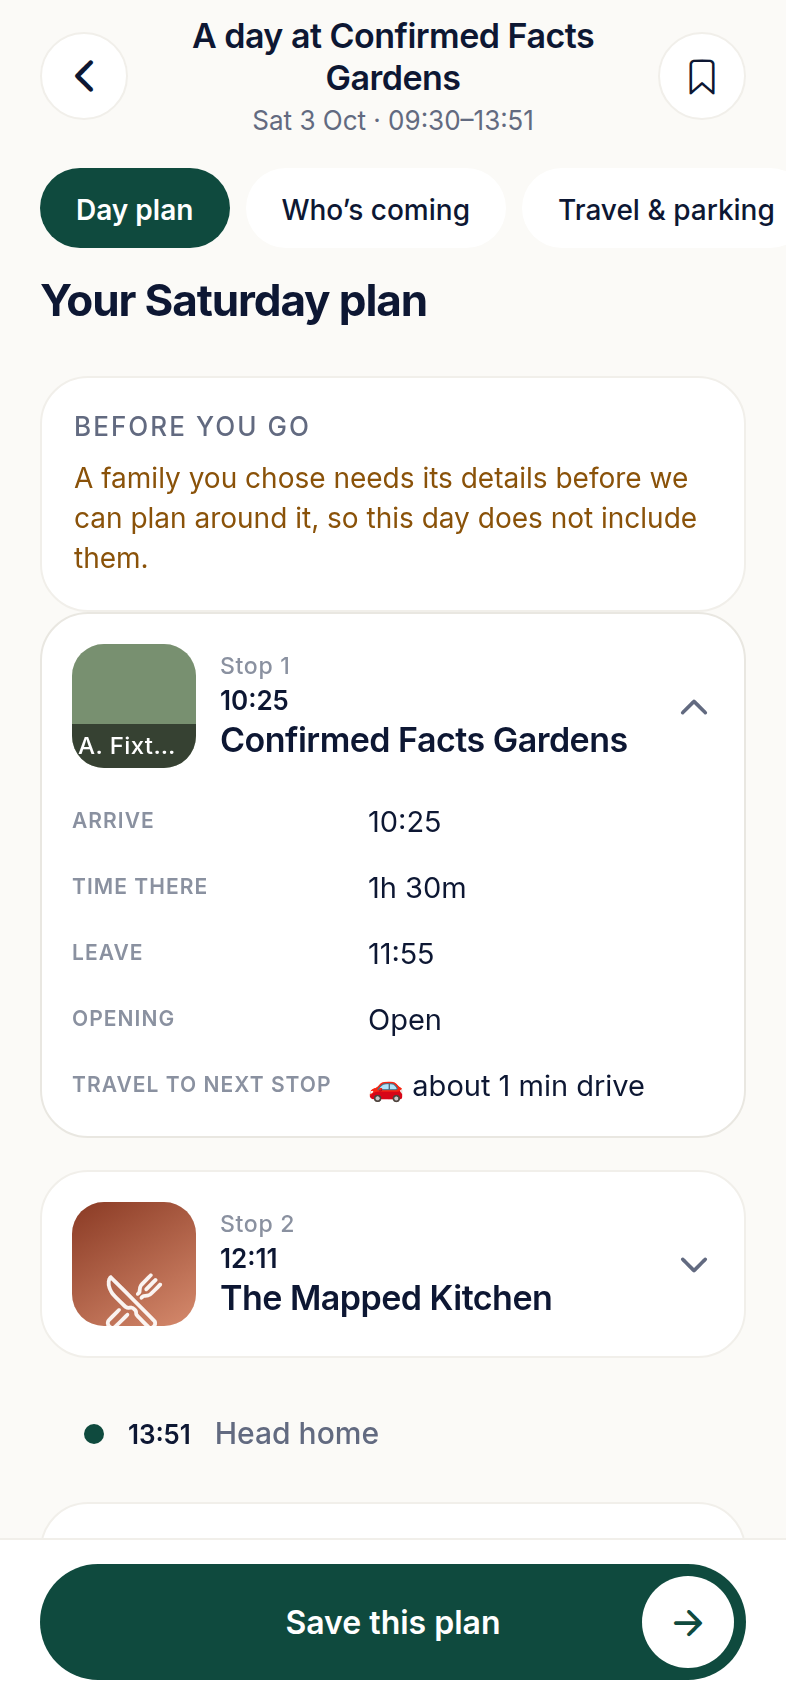
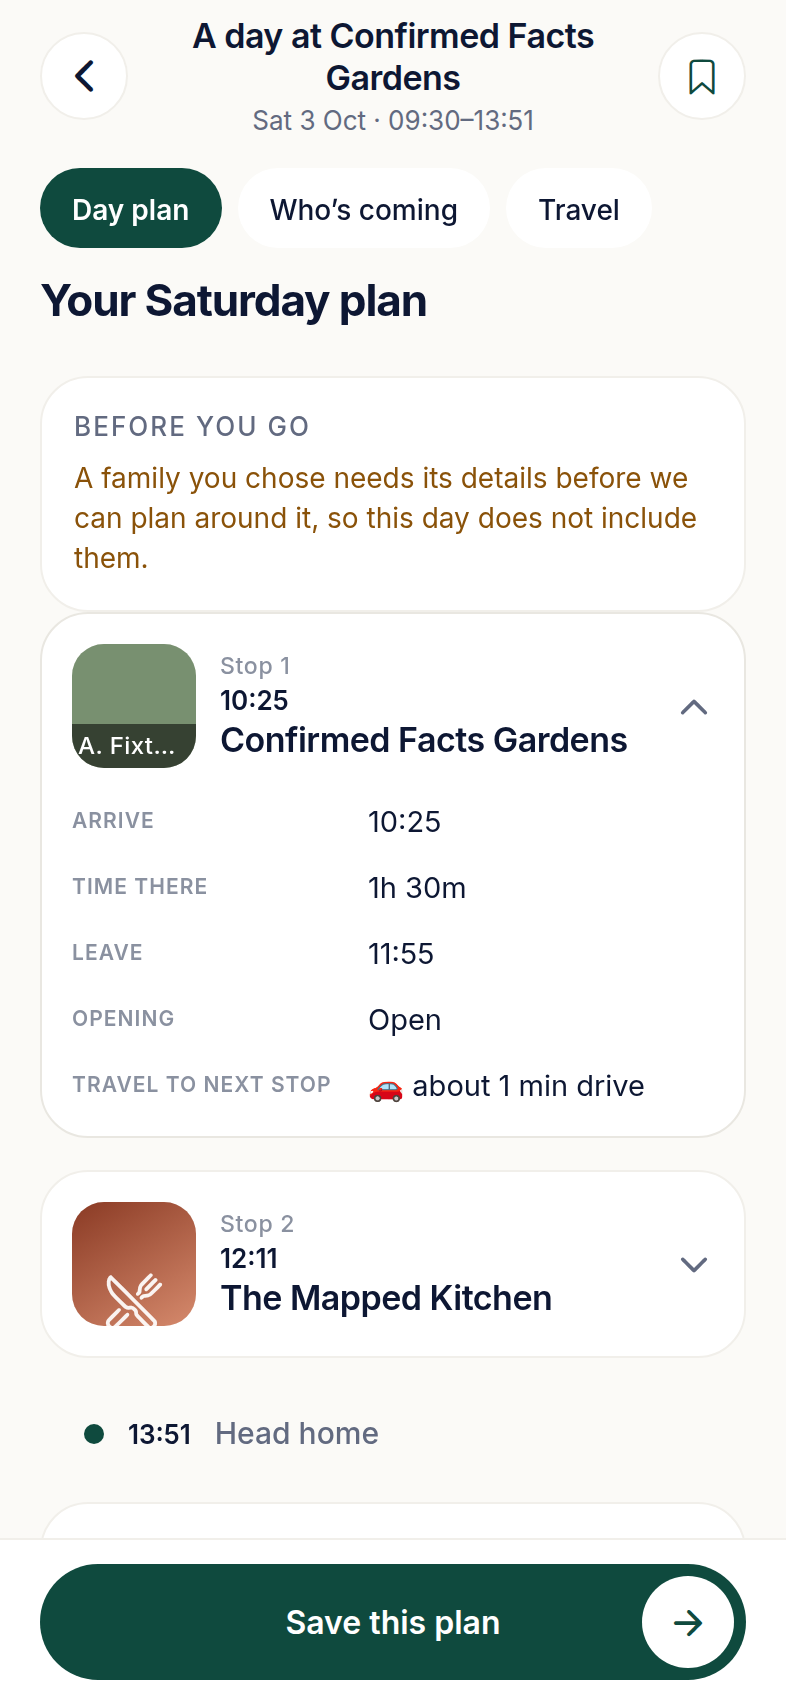
Visual identity, part 2: quieter screens, Plan controls that fit, Welcome photo pipeline, Explore nav clearance check (#157)
The screens that carry facts and forms (Venue Detail, Create a plan, Generating, Plan, Saved,
Trips, Profile, Edit profile, Restaurants, Account, onboarding, and every loading, empty and error
state) already inherit the identity through the tokens and primitives landed in part 1. This slice
closes the last places where chrome was still drawn in ink:

- Spinners and pull-to-refresh tints (Home, Explore, Saved, the app's splash loader, "Eat nearby")
  are the action green.
- Control icons on white discs (Venue Detail's share and save, the Plan's bookmark, the focused
  recommendation's arrow, Planning's intro mark) are the action green.
- Confirmation ticks (the plan's profile receipt, Generating's completed steps, the Plan's
  confirmed facts) are the confirmed-fact mid green rather than ink.
- Empty states use the Figma "State / Empty" well: mint with the glyph in the action green.

No decoration is added to any of these screens, by design: the facts stay the focus. Text stays
ink; informational icons beside text (facility grid, back chevrons) stay ink too, because they read
as text, not as controls.

deck 11/11, plan 52/52, journey audit 291/291, onboarding flow, place credits 13/13, identity probe
77/77, and a full capture of every consumer route at 360/390/430 reviewed by eye.

Claude-Session: https://claude.ai/code/session_01B1rrDUPknqyRoBSdiYqTN3
Also: Plan controls fit at every width (planSectionLabels), the Welcome photo pipeline (manifest,
[…]

diff --git a/familypilot/src/components/planning/PlanScreenView.tsx b/familypilot/src/components/planning/PlanScreenView.tsx
@@ -1,11 +1,12 @@
 import { Ionicons } from '@expo/vector-icons';
 import { useState } from 'react';
-import { Pressable, ScrollView, StyleSheet, View } from 'react-native';
+import { Pressable, ScrollView, StyleSheet, useWindowDimensions, View } from 'react-native';
 
 import { BackButton } from '@/src/components/ui/BackButton';
 import { Text } from '@/src/components/ui';
 import { ArrowCta } from '@/src/components/ui/ArrowCta';
 import { colors, radius, spacing } from '@/src/design-system/tokens';
+import { PLAN_SECTION_CONTROL_PADDING, planSectionLabels } from '@/src/utils/plan-section-labels';
 import { safeFooterPadding } from '@/src/utils/safe-area';
 import { PlanSectionView, PlanViewModel } from '@/src/services/planning/plan-view-model';
 
@@ -49,6 +50,8 @@ export function PlanScreenView({
   topInset = 0,
 }: PlanScreenViewProps) {
   const [section, setSection] = useState<PlanSectionView['id']>('day');
+  const { width } = useWindowDimensions();
+  const sectionLabels = planSectionLabels(width, view.sections);
   // The approved design opens the first stop and leaves the rest closed.
   const [expanded, setExpanded] = useState<number[]>(view.stops.length ? [view.stops[0].index] : []);
 
@@ -88,14 +91,14 @@ export function PlanScreenView({
           <Ionicons
             name={saved ? 'bookmark' : 'bookmark-outline'}
             size={20}
-            color={colors.ink}
+            color={colors.action}
           />
         </Pressable>
       </View>
 
-      {/* Scrolls in its own container rather than pushing the page sideways. At 360 wide the three
-          approved labels come to 364px, so a fixed row made the whole Plan screen scroll
-          horizontally; the nav is horizontal by design, so this is where that scroll belongs. */}
+      {/* Primary navigation, so all three controls are visible at once: where the full labels would
+          clip (360 and 390), the travel control takes its short label (`planSectionLabels`). The
+          horizontal scroller stays only as a safety net for widths below the phone floor. */}
       <ScrollView
         horizontal
         showsHorizontalScrollIndicator={false}
@@ -111,7 +114,7 @@ export function PlanScreenView({
             style={[styles.navItem, section === entry.id && styles.navItemActive]}
             testID={`plan-section-${entry.id}`}
           >
-            <Text style={[styles.navLabel, section === entry.id && styles.navLabelActive]}>{entry.label}</Text>
+            <Text style={[styles.navLabel, section === entry.id && styles.navLabelActive]}>{sectionLabels[entry.id] ?? entry.label}</Text>
           </Pressable>
         ))}
       </ScrollView>
@@ -133,7 +136,7 @@ export function PlanScreenView({
                 before. Never an alert, never invented from the clock alone. */}
             {view.insight ? (
               <View style={styles.insight} testID="plan-insight">
-                <Ionicons name="checkmark" size={14} color={colors.ink} />
+                <Ionicons name="checkmark" size={14} color={colors.secondary[500]} />
                 <Text style={styles.insightText} numberOfLines={1}>
                   {view.insight}
                 </Text>
@@ -311,10 +314,11 @@ const styles = StyleSheet.create({
     gap: spacing.sm,
     paddingHorizontal: spacing.screenPadding,
   },
-  // Node 70:25: 40 tall, 18 either side, radius 20; ink when active, white when not.
+  // Node 70:25: 40 tall, radius 20; green when active, white when not. 16 either side rather than
+  // the frame's 18 so the three full labels fit a 430 screen on one visible row.
   navItem: {
     height: 40,
-    paddingHorizontal: 18,
+    paddingHorizontal: PLAN_SECTION_CONTROL_PADDING,
     justifyContent: 'center',
     borderRadius: 20,
     backgroundColor: colors.surface,

diff --git a/familypilot/src/utils/plan-section-labels.ts b/familypilot/src/utils/plan-section-labels.ts
@@ -1,0 +1,41 @@
+import { spacing } from '@/src/design-system/tokens';
+
+import { estimateTextWidth, FIT_MARGIN } from './home-header-layout';
+
+/**
+ * The Plan's three section controls (Day plan · Who's coming · Travel & parking) are primary
+ * navigation, so all three must be visible at once, never half off the edge. With the full labels
+ * the row is 376pt (16 side padding, 8 gaps), which fits a 430 phone and not a 393, 390 or 360 one.
+ * Where it does not fit, the travel control takes its short label "Travel"; the section heading
+ * inside still reads "Travel & parking", and nothing else changes.
+ *
+ * Widths are Chrome's own measurements of Inter Semi Bold 14 (the active weight, so the row fits
+ * whichever control is active); unknown labels fall back to the shared estimate, which errs wide.
+ */
+const SHORT_LABELS: Record<string, string> = { travel: 'Travel' };
+const MEASURED_SEMIBOLD_14: Record<string, number> = {
+  'Day plan': 58.7,
+  'Who’s coming': 95.7,
+  'Travel & parking': 109.6,
+  Travel: 41.6,
+};
+export const PLAN_SECTION_CONTROL_PADDING = 16;
+const CONTROL_GAP = spacing.sm;
+const LABEL_SIZE = 14;
+
+interface Section { id: string; label: string }
+
+export function planSectionLabelWidth(label: string): number {
+  return MEASURED_SEMIBOLD_14[label] ?? estimateTextWidth(label, LABEL_SIZE, 'semiBold');
+}
+
+export function planSectionRowWidth(labels: string[]): number {
+  return labels.reduce((sum, label) => sum + planSectionLabelWidth(label) + PLAN_SECTION_CONTROL_PADDING * 2, 0) + CONTROL_GAP * (labels.length - 1);
+}
+
+export function planSectionLabels(viewportWidth: number, sections: readonly Section[]): Record<string, string> {
+  const available = viewportWidth - spacing.screenPadding * 2;
+  const full = Object.fromEntries(sections.map((s) => [s.id, s.label]));
+  if (planSectionRowWidth(Object.values(full)) + FIT_MARGIN <= available) return full;
+  return Object.fromEntries(sections.map((s) => [s.id, SHORT_LABELS[s.id] ?? s.label]));
+}

diff --git a/familypilot/src/__tests__/plan-section-labels.test.ts b/familypilot/src/__tests__/plan-section-labels.test.ts
@@ -1,0 +1,33 @@
+import { describe, expect, it } from 'vitest';
+
+import { planSectionLabels, planSectionRowWidth } from '@/src/utils/plan-section-labels';
+
+const SECTIONS = [
+  { id: 'day', label: 'Day plan' },
+  { id: 'who', label: 'Who’s coming' },
+  { id: 'travel', label: 'Travel & parking' },
+];
+const FULL = { day: 'Day plan', who: 'Who’s coming', travel: 'Travel & parking' };
+const SHORT = { day: 'Day plan', who: 'Who’s coming', travel: 'Travel' };
+
+describe('Plan section control labels', () => {
+  it('keeps the full labels where the row fits inside the gutters with the fit margin (430)', () => {
+    expect(planSectionLabels(430, SECTIONS)).toEqual(FULL);
+    expect(planSectionRowWidth(Object.values(FULL)) + 8).toBeLessThanOrEqual(430 - 40);
+  });
+
+  it('shortens only the travel control where the full row would clip (393, 390, 360)', () => {
+    for (const width of [360, 390, 393]) {
+      const labels = planSectionLabels(width, SECTIONS);
+      expect(labels).toEqual(SHORT);
+      expect(planSectionRowWidth(Object.values(labels)) + 8).toBeLessThanOrEqual(width - 40);
+    }
+  });
+
+  it('never changes the section ids or the other two labels, even on a tiny screen', () => {
+    const labels = planSectionLabels(320, SECTIONS);
+    expect(Object.keys(labels)).toEqual(['day', 'who', 'travel']);
+    expect(labels.day).toBe('Day plan');
+    expect(labels.who).toBe('Who’s coming');
+  });
+});

diff --git a/familypilot/src/__tests__/welcome-photos.test.ts b/familypilot/src/__tests__/welcome-photos.test.ts
@@ -1,0 +1,31 @@
+import { existsSync, readFileSync } from 'node:fs';
+import { join } from 'node:path';
+
+import { describe, expect, it } from 'vitest';
+
+import { WELCOME_PHOTOS } from '@/src/assets/welcome-photos';
+import { WELCOME_COLLAGE } from '@/src/utils/welcome-layout';
+
+const ASSET_DIR = join(__dirname, '..', '..', 'assets', 'images', 'welcome');
+const SLOT_IDS = ['zoo', ...WELCOME_COLLAGE.slots.map((s) => s.id)];
+
+describe('Welcome collage photographs', () => {
+  const credits = readFileSync(join(ASSET_DIR, 'CREDITS.md'), 'utf8');
+  const creditedSlots = [...credits.matchAll(/^\| (\w[\w-]*) \| /gm)].map((m) => m[1]).filter((s) => s !== 'Slot' && !/^-+$/.test(s));
+
+  it('only names slots that exist in the collage', () => {
+    for (const key of Object.keys(WELCOME_PHOTOS)) expect(SLOT_IDS).toContain(key);
+    for (const key of creditedSlots) expect(SLOT_IDS).toContain(key);
+  });
+
+  it('has a file and a credit line for every photograph it ships', () => {
+    for (const key of Object.keys(WELCOME_PHOTOS)) {
+      expect(existsSync(join(ASSET_DIR, `${key}.jpg`)), `assets/images/welcome/${key}.jpg`).toBe(true);
+      expect(creditedSlots, `CREDITS.md line for ${key}`).toContain(key);
+    }
+  });
+
+  it('ships no photograph that is credited but not wired, or wired but not credited', () => {
+    expect(new Set(creditedSlots)).toEqual(new Set(Object.keys(WELCOME_PHOTOS)));
+  });
+});

diff --git a/familypilot/src/assets/welcome-photos.ts b/familypilot/src/assets/welcome-photos.ts
@@ -1,0 +1,23 @@
+import type { ImageSource } from 'expo-image';
+
+/**
+ * The photographs behind the Welcome collage, keyed by the slot ids in `welcome-layout.ts`.
+ *
+ * This is where the editorial photography plugs in. A slot with an entry renders the photograph;
+ * a slot without one renders the category-gradient placeholder, which is NOT the finished
+ * experience: the approved Welcome is the photographic collage (farm/animals, zoo/wildlife, soft
+ * play, pottery/creative, café, muddy wellies, aquarium).
+ *
+ * Rules for an entry:
+ *   - A licensed, candid, editorial photograph the product may ship (no stock-looking posed family,
+ *     no generated imagery, no photograph that impersonates a venue).
+ *   - The file lives in `assets/images/welcome/<slot>.jpg`, is landscape-or-square ≥ 800px on the
+ *     short side, and is recorded in `assets/images/welcome/CREDITS.md` (photographer, source,
+ *     licence). `welcome-photos.test.ts` fails the build when a slot points at a file that is
+ *     missing from either place.
+ *   - React Native needs a static `require`, so each line is written out by hand when the file lands.
+ *
+ * Add a slot like so once its file and credit exist:
+ *   farm: require('../../assets/images/welcome/farm.jpg'),
+ */
+export const WELCOME_PHOTOS: Partial<Record<string, ImageSource>> = {};

diff --git a/familypilot/app/(onboarding)/welcome.tsx b/familypilot/app/(onboarding)/welcome.tsx
@@ -3,6 +3,7 @@ import { useRouter } from 'expo-router';
 import { ScrollView, StyleSheet, useWindowDimensions, View } from 'react-native';
 import { useSafeAreaInsets } from 'react-native-safe-area-context';
 
+import { WELCOME_PHOTOS } from '@/src/assets/welcome-photos';
 import { BenefitCard } from '@/src/components/onboarding/BenefitCard';
 import { Button, Doodle, PhotoSlot, Text } from '@/src/components/ui';
 import { colors, radius, spacing } from '@/src/design-system/tokens';
@@ -57,6 +58,7 @@ export default function WelcomeScreen() {
             category="zoo"
             shape="circle"
             icon="paw-outline"
+            source={WELCOME_PHOTOS.zoo}
             testID="welcome-slot-zoo"
             // Fixed size, not scaled: the headline's first line reaches the slot's column at every
             // width (x=298 at 360, x=347 at 430), so the slot has to end above the headline's top
@@ -72,6 +74,7 @@ export default function WelcomeScreen() {
               category={slot.category}
               shape={slot.shape}
               icon={slot.icon}
+              source={WELCOME_PHOTOS[slot.id]}
               testID={`welcome-slot-${slot.id}`}
               style={{ left: slot.x * k, top: slot.y * k, width: slot.w * k, height: slot.h * k }}
             />

diff --git a/familypilot/src/components/home/FocusedRecommendationCard.tsx b/familypilot/src/components/home/FocusedRecommendationCard.tsx
@@ -22,7 +22,7 @@ export function FocusedRecommendationCard({ recommendation, variant = 'carousel'
         {isHero ? <>
           <LinearGradient colors={['transparent', 'rgba(18,24,27,0.82)']} style={styles.scrim} pointerEvents="none" />
           <View style={styles.overlayCopy}><Text variant="caption" color={colors.text.inverse}>{recommendation.category}</Text><Text variant="heading2" color={colors.text.inverse} style={styles.venueName}>{recommendation.venueName}</Text><View style={styles.rating}><Ionicons name="star" size={14} color="#FFD166" /><Text variant="caption" color={colors.text.inverse}>{recommendation.fit}</Text><Text variant="caption" color="rgba(255,255,255,0.76)">{travelTimeLabel(recommendation.driveMinutes, travelSourceOf(recommendation.journeySource))}</Text></View></View>
-          <View style={styles.arrow}><Ionicons name="arrow-forward" size={22} color={colors.text.primary} /></View>
+          <View style={styles.arrow}><Ionicons name="arrow-forward" size={22} color={colors.action} /></View>
         </> : null}
       </View>
       {!isHero ? <View style={styles.content}><Text variant="heading3" numberOfLines={1}>{recommendation.venueName}</Text><Text variant="bodySmall" style={styles.fit}>{recommendation.fit}</Text></View> : null}

diff --git a/familypilot/src/components/ui/EmptyState.tsx b/familypilot/src/components/ui/EmptyState.tsx
@@ -23,8 +23,10 @@ export function EmptyState({
 }: EmptyStateProps) {
   return (
     <View style={styles.container} accessibilityRole="text">
+      {/* Figma "State / Empty": a mint well with the glyph in the action green, so an empty screen
+          still reads as the identity rather than a grey placeholder. */}
       <View style={styles.iconWrap}>
-        <Ionicons name={icon} size={32} color={colors.text.tertiary} />
+        <Ionicons name={icon} size={32} color={colors.action} />
       </View>
       <Text variant="heading3" style={styles.title}>
         {title}
@@ -49,7 +51,7 @@ const styles = StyleSheet.create({
     width: 64,
     height: 64,
     borderRadius: 32,
-    backgroundColor: colors.fill,
+    backgroundColor: colors.actionSoft,
     alignItems: 'center',
     justifyContent: 'center',
     marginBottom: spacing.lg,

diff --git a/familypilot/src/components/planning/PlanningAccount.tsx b/familypilot/src/components/planning/PlanningAccount.tsx
@@ -27,7 +27,7 @@ export function PlanningAccount(){
  if(!supabase)return <Card style={styles.card}><Text variant="heading3">Connect with friends</Text><Text color={colors.text.secondary}>Account connections need to be enabled by the app owner. You can already plan together on one phone.</Text></Card>;
  return <View style={styles.stack}>
   <Card style={[styles.card,styles.introCard]}>
-   <View style={styles.introIcon}><Ionicons name="people-circle-outline" size={28} color={colors.ink}/></View>
+   <View style={styles.introIcon}><Ionicons name="people-circle-outline" size={28} color={colors.action}/></View>
    <Text variant="heading2">Plan days out with friends</Text>
    <Text color={colors.text.secondary}>Connect with another family to share routines, plan a day that works for both of you, and see who’s coming.</Text>
   </Card>

diff --git a/familypilot/app/venue/[id].tsx b/familypilot/app/venue/[id].tsx
@@ -248,10 +248,10 @@ export default function VenueScreen() {
             </View>
             <View style={styles.heroActions}>
               <View style={styles.heroCircle}>
-                <ShareButton title={venue.name} path={`/venue/${venue.id}`} color={colors.ink} />
+                <ShareButton title={venue.name} path={`/venue/${venue.id}`} color={colors.action} />
               </View>
               <View style={styles.heroCircle}>
-                <SaveButton venueId={venue.id} venue={venue} color={colors.ink} />
+                <SaveButton venueId={venue.id} venue={venue} color={colors.action} />
               </View>
             </View>
           </View>

diff --git a/familypilot/src/components/planning/GeneratingPlan.tsx b/familypilot/src/components/planning/GeneratingPlan.tsx
@@ -65,7 +65,7 @@ export function GeneratingPlan({ venueName, steps, done, current, receipt = null
               {/* Nodes 76:140, 76:146, 76:148: tick, filled dot, empty ring. */}
               <View style={styles.markerBox}>
                 {complete ? (
-                  <Ionicons name="checkmark" size={16} color={colors.ink} />
+                  <Ionicons name="checkmark" size={16} color={colors.secondary[500]} />
                 ) : active ? (
                   <View style={styles.dot} />
                 ) : (

diff --git a/familypilot/src/components/planning/ProfileReceipt.tsx b/familypilot/src/components/planning/ProfileReceipt.tsx
@@ -12,7 +12,7 @@ import { colors, spacing } from '@/src/design-system/tokens';
 export function ProfileReceipt({ text, onEdit, style }: { text: string; onEdit?: () => void; style?: object }) {
   return (
     <View style={[styles.pill, style]} testID="profile-receipt">
-      <Ionicons name="checkmark" size={14} color={colors.ink} style={styles.icon} />
+      <Ionicons name="checkmark" size={14} color={colors.secondary[500]} style={styles.icon} />
       <Text style={styles.text}>
         {text}
         {onEdit ? (
